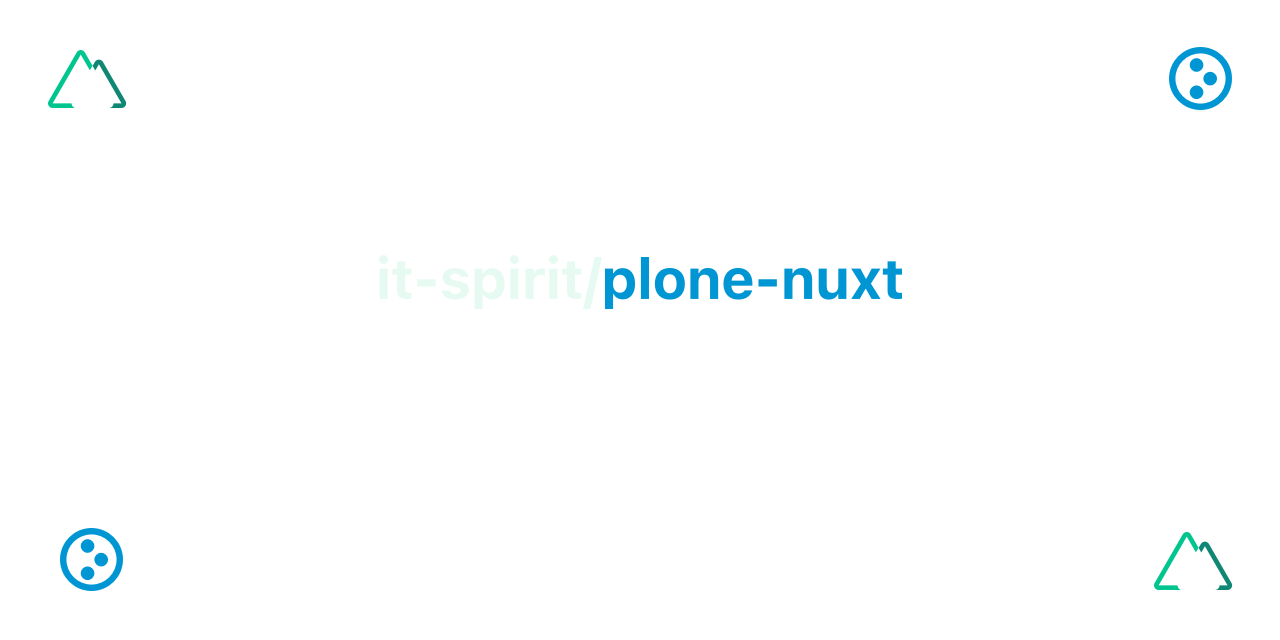
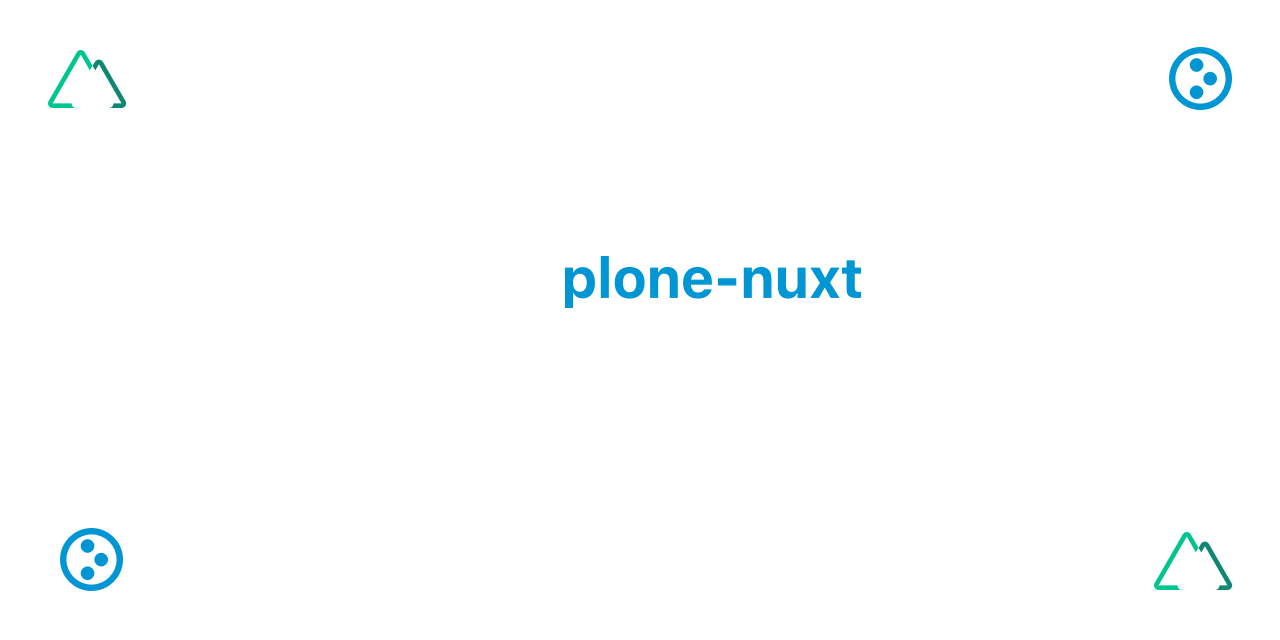
chore: :truck: move to cusy namespace

Changed region(s): [[0.2812, 0.4062, 0.7188, 0.5]]

diff --git a/templates/plugins/plone.js b/templates/plugins/plone.js
@@ -1,5 +1,5 @@
 import Hookable from 'hookable'
-import PloneClient from '@it-spirit/plone-js'
+import PloneClient from '@cusy/plone-js'
 import { getQuery, joinURL, parseURL } from 'ufo'
 
 /**

diff --git a/src/generator.js b/src/generator.js
@@ -1,4 +1,4 @@
-const PloneClient = require('@it-spirit/plone-js')
+const PloneClient = require('@cusy/plone-js')
 const logger = require('./logger')
 
 /**

diff --git a/src/logger.js b/src/logger.js
@@ -1,1 +1,1 @@
-module.exports = require('consola').withScope('@it-spirit/plone-nuxt')
+module.exports = require('consola').withScope('@cusy/plone-nuxt')

diff --git a/README.md b/README.md
@@ -44,26 +44,19 @@ yarn add plone-nuxt-module # or npm install plone-nuxt-module
 
 Copyright (c) Thomas Massmann <thomas.massmann@it-spir.it>
 
-## Sponsors
-
-The development of this NuxtJS module was sponsored by:
-
-[<img src="./it-spirit.png" width="250" />](https://www.it-spir.it)
-[<img src="./cusy.png" width="250" />](https://cusy.io)
-
 
 <!-- Badges -->
-[npm-version-src]: https://img.shields.io/npm/v/plone-nuxt-module/latest.svg
-[npm-version-href]: https://npmjs.com/package/plone-nuxt-module
+[npm-version-src]: https://img.shields.io/npm/v/@cusy/plone-nuxt/latest.svg
+[npm-version-href]: https://npmjs.com/package/@cusy/plone-nuxt
 
-[npm-downloads-src]: https://img.shields.io/npm/dt/plone-nuxt-module.svg
-[npm-downloads-href]: https://npmjs.com/package/plone-nuxt-module
+[npm-downloads-src]: https://img.shields.io/npm/dt/@cusy/plone-nuxt.svg
+[npm-downloads-href]: https://npmjs.com/package/@cusy/plone-nuxt
 
-[github-actions-ci-src]: https://github.com/it-spirit/plone-nuxt-module/workflows/ci/badge.svg
-[github-actions-ci-href]: https://github.com/it-spirit/plone-nuxt-module/actions?query=workflow%3Aci
+[github-actions-ci-src]: https://github.com/cusyio/plone-nuxt-module/workflows/ci/badge.svg
+[github-actions-ci-href]: https://github.com/cusyio/plone-nuxt-module/actions?query=workflow%3Aci
 
-[codecov-src]: https://img.shields.io/codecov/c/github/it-spirit/plone-nuxt-module.svg
-[codecov-href]: https://codecov.io/gh/it-spirit/plone-nuxt-module
+[codecov-src]: https://img.shields.io/codecov/c/github/cusyio/plone-nuxt-module.svg
+[codecov-href]: https://codecov.io/gh/cusyio/plone-nuxt-module
 
 [license-src]: https://img.shields.io/npm/l/plone-nuxt-module.svg
 [license-href]: https://npmjs.com/package/plone-nuxt-module

diff --git a/docs/content/en/setup.md b/docs/content/en/setup.md
@@ -9,31 +9,31 @@ Check the [Nuxt.js documentation](https://nuxtjs.org/guides/configuration-glossa
 
 ## Installation
 
-Add `@it-spirit/plone-nuxt` dependency to your project:
+Add `@cusy/plone-nuxt` dependency to your project:
 
 <code-group>
   <code-block label="Yarn" active>
 
   ```bash
-  yarn add @it-spirit/plone-nuxt
+  yarn add @cusy/plone-nuxt
   ```
 
   </code-block>
   <code-block label="NPM">
 
   ```bash
-  npm install @it-spirit/plone-nuxt
+  npm install @cusy/plone-nuxt
   ```
 
   </code-block>
 </code-group>
 
-Then, add `@it-spirit/plone-nuxt` to the `modules` section of `nuxt.config.js`:
+Then, add `@cusy/plone-nuxt` to the `modules` section of `nuxt.config.js`:
 
 ```js[nuxt.config.js]
 {
   modules: [
-    '@it-spirit/plone-nuxt'
+    '@cusy/plone-nuxt'
   ],
   plone: {
     // Options

diff --git a/docs/content/en/index.md b/docs/content/en/index.md
@@ -17,10 +17,3 @@ features:
 ## Features
 
 <list :items="features"></list>
-
-## Sponsors
-
-The development of this NuxtJS module was sponsored by:
-
-[<img src="/it-spirit.png" width="250" />](https://www.it-spir.it)
-[<img src="/cusy.png" width="250" />](https://cusy.io)

diff --git a/docs/README.md b/docs/README.md
@@ -1,4 +1,4 @@
-# @it-spirit/plone-nuxt-docs
+# @cusy/plone-nuxt-docs
 
 ## Setup
 
